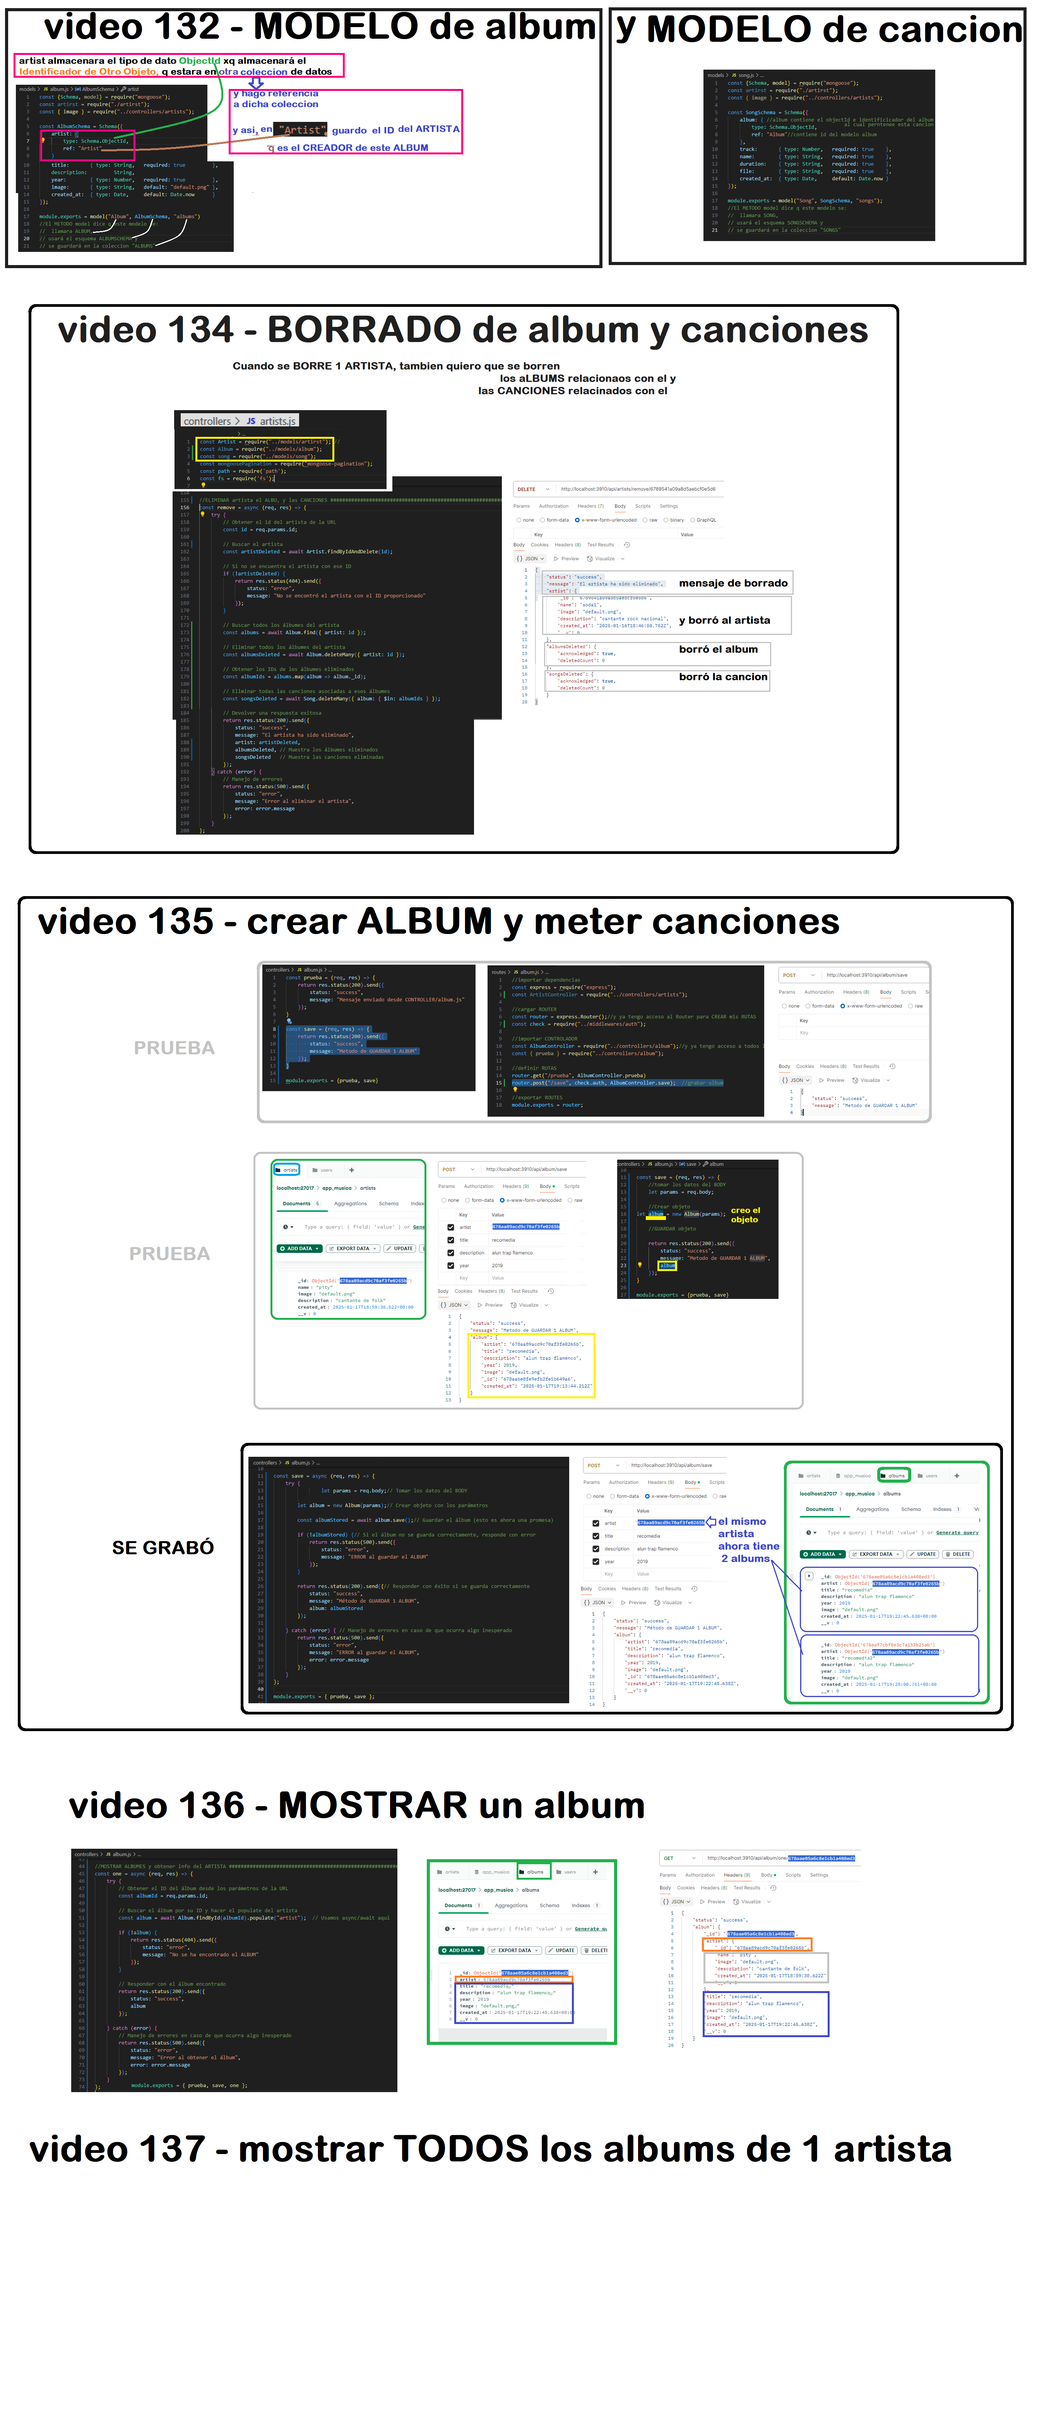
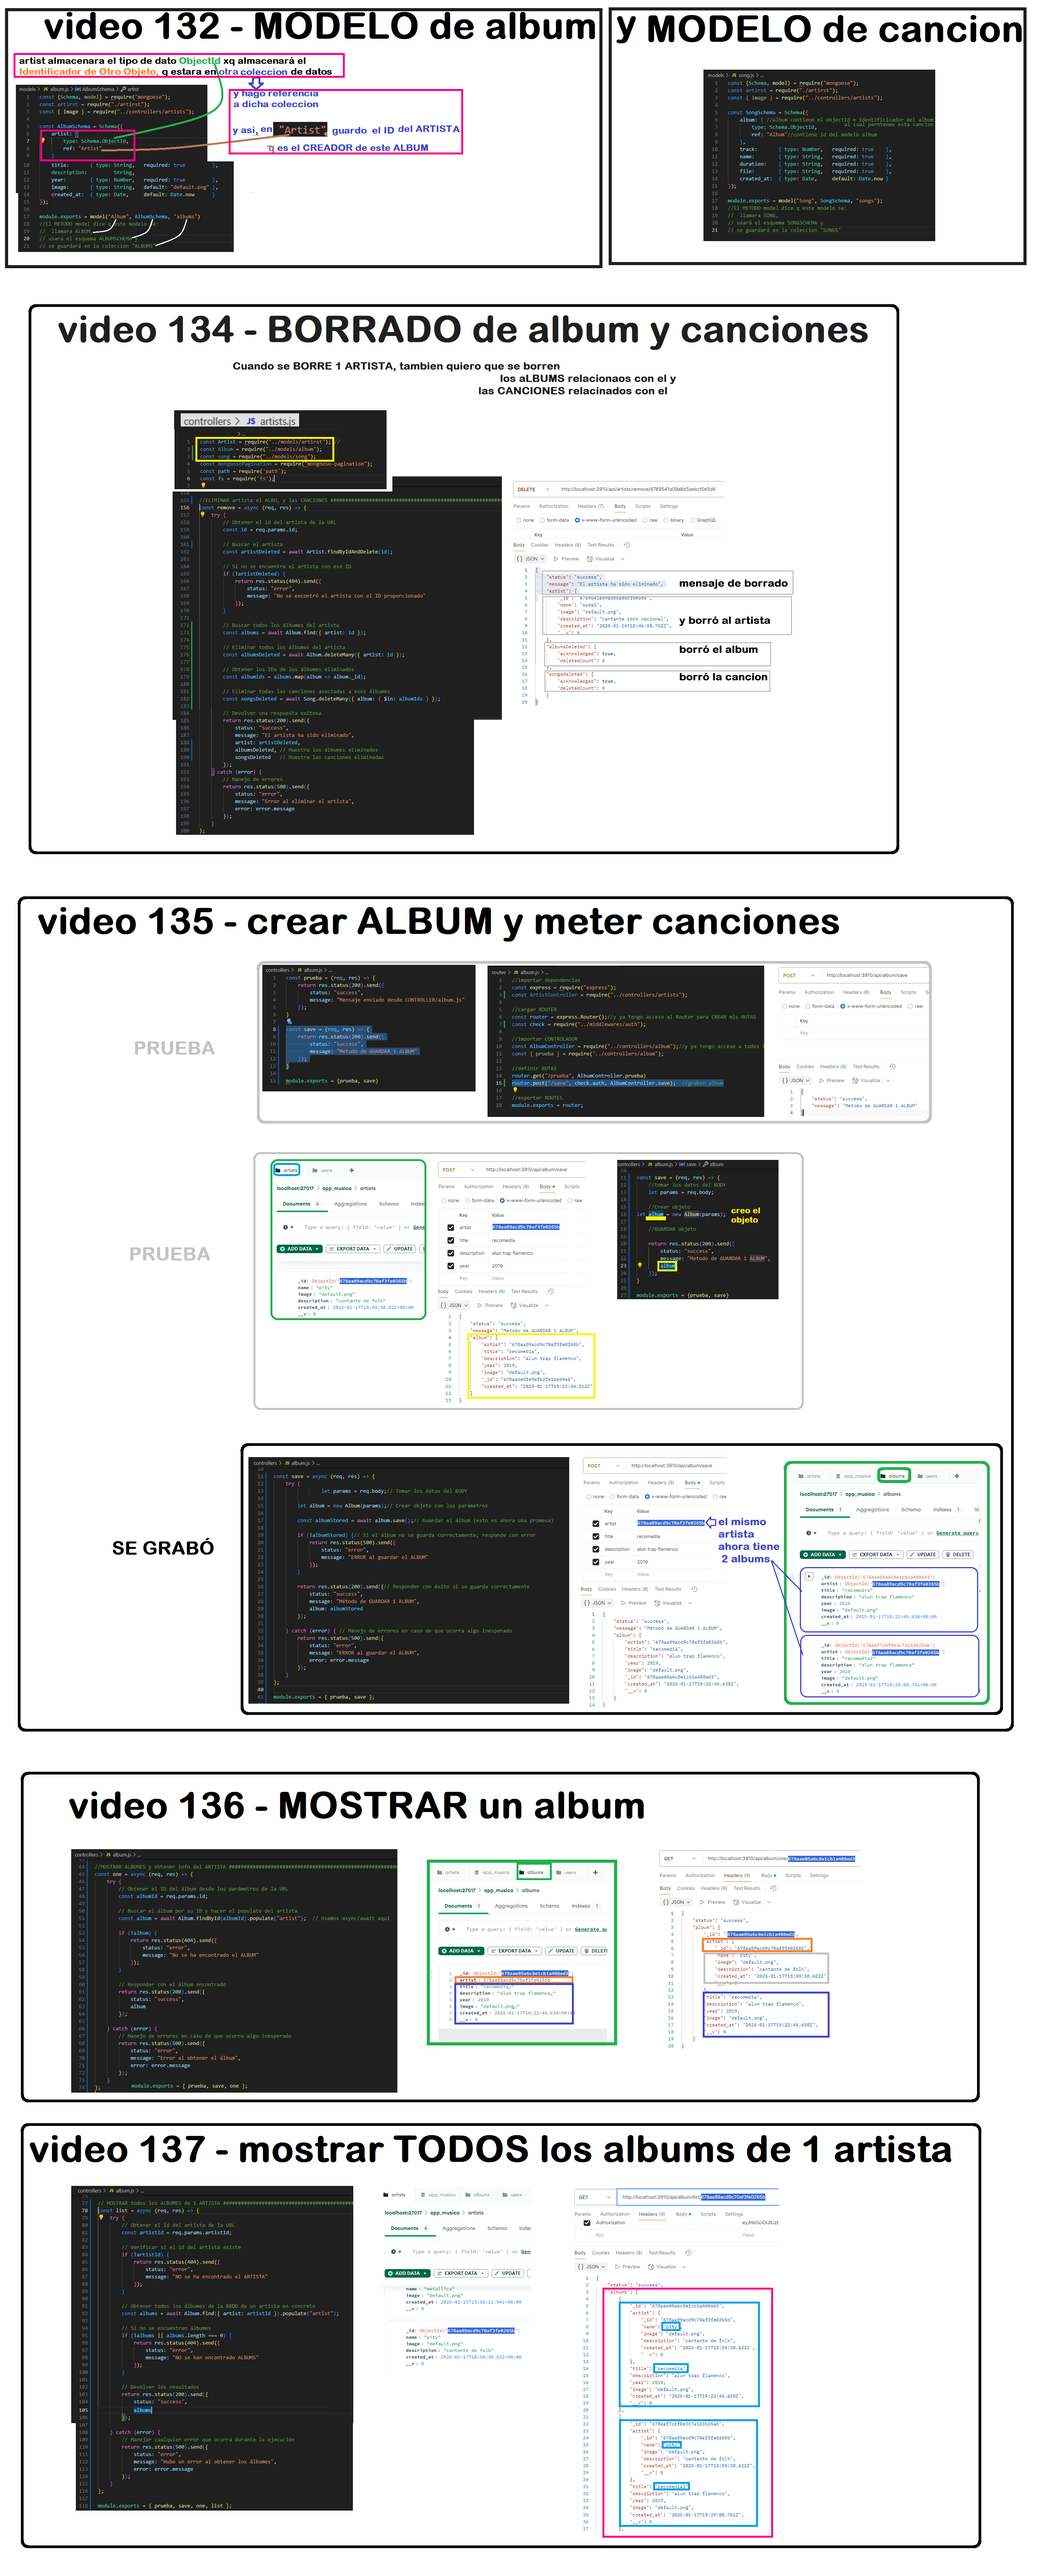
30° V.137 MOSTRAR varios albums de 1 artista

diff --git a/controllers/album.js b/controllers/album.js
@@ -74,5 +74,47 @@ const one = async (req, res) => {
 };
 
 
-module.exports = { prueba, save, one };
+// MOSTRAR todos los ALBUMES de 1 ARTISTA ###########################################################################
+const list = async (req, res) => {
+    try {
+        // Obtener el id del artista de la URL
+        const artistId = req.params.artistId;
+
+        // Verificar si el id del artista existe
+        if (!artistId) {
+            return res.status(404).send({
+                status: "error",
+                message: "NO se ha encontrado el ARTISTA"
+            });
+        }
+
+        // Obtener todos los álbumes de la BBDD de un artista en concreto
+        const albums = await Album.find({ artist: artistId }).populate("artist");
+
+        // Si no se encuentran álbumes
+        if (!albums || albums.length === 0) {
+            return res.status(404).send({
+                status: "error",
+                message: "NO se han encontrado ALBUMS"
+            });
+        }
+
+        // Devolver los resultados
+        return res.status(200).send({
+            status: "success",
+            albums
+        });
+
+    } catch (error) {
+        // Manejar cualquier error que ocurra durante la ejecución
+        return res.status(500).send({
+            status: "error",
+            message: "Hubo un error al obtener los álbumes",
+            error: error.message
+        });
+    }
+};
+
+module.exports = { prueba, save, one, list };
+
 

diff --git a/routes/album.js b/routes/album.js
@@ -14,6 +14,7 @@ const { prueba } = require("../controllers/album");
 router.get("/prueba", AlbumController.prueba)
 router.post("/save", check.auth, AlbumController.save);  //grabar album
 router.get("/one/:id", check.auth, AlbumController.one);  //recuperar 1 album
+router.get("/list/:artistId", check.auth, AlbumController.list);  //recuperar TODOS los albums
 
 //exportar ROUTES
 module.exports = router;
